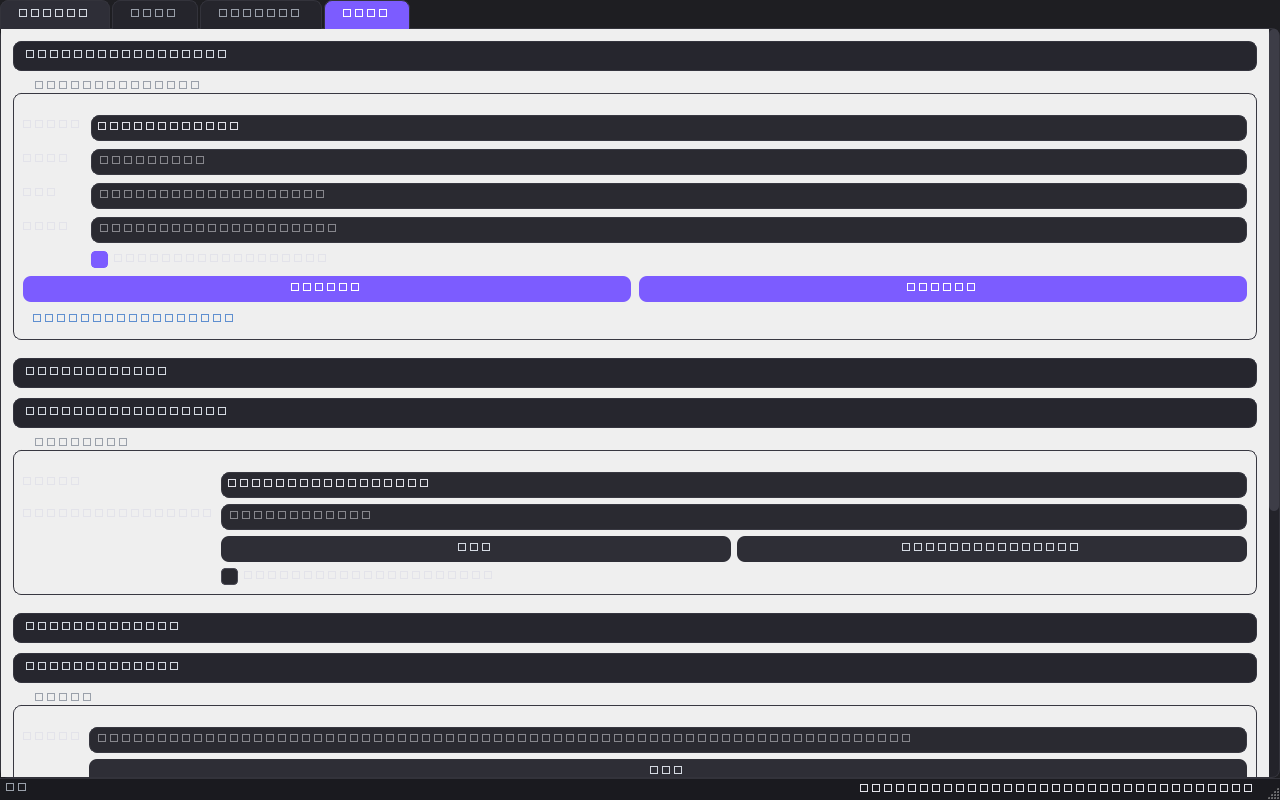
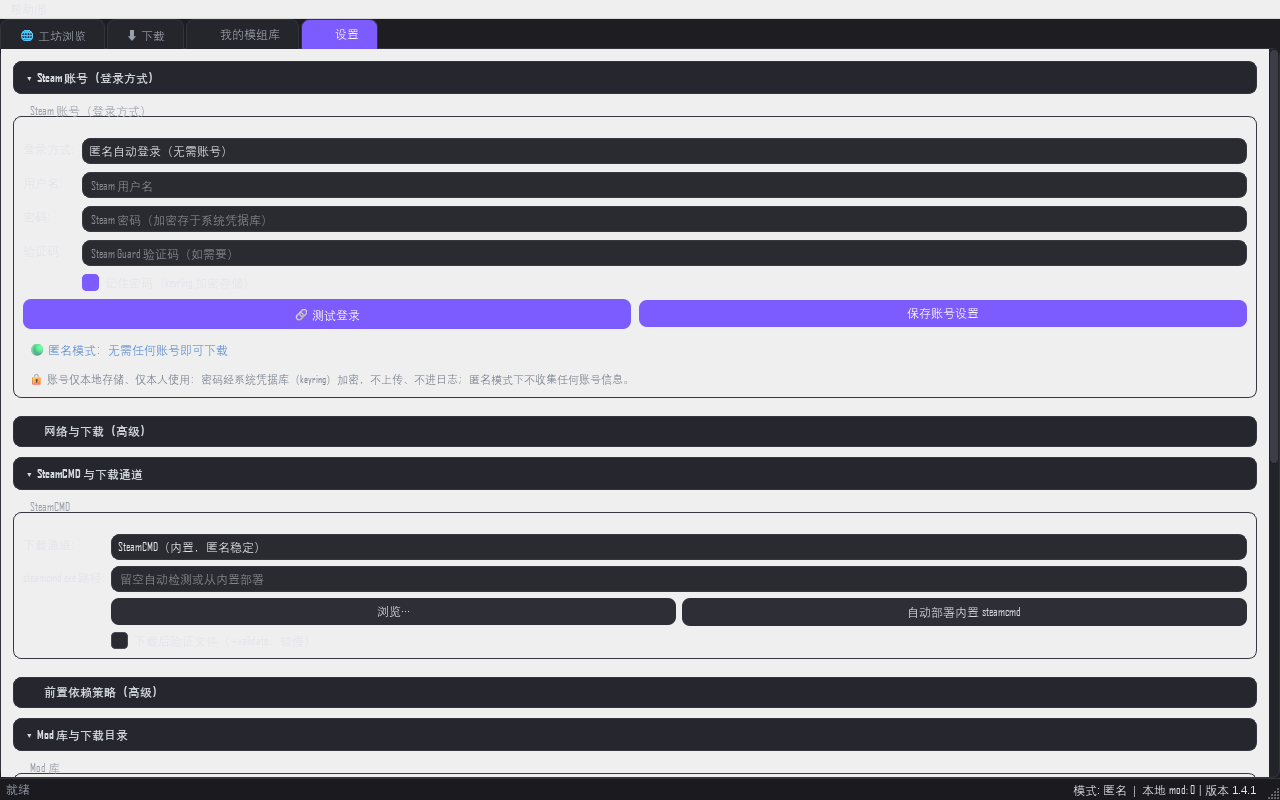
fix(shots): 修复 offscreen 截图豆腐块（QT_QPA_FONTDIR 指向 Windows/Fonts + 显式微软雅黑）
根因：offscreen QPA 不枚举系统字体（默认查 PySide6/lib/fonts，Qt 不再自带字体），字体族 0、连 ASCII 都无字形，9 张 README/手册截图全是框框。修复：两个截图脚本设置 QT_QPA_FONTDIR=%WINDIR%\Fonts + app.setFont(Microsoft YaHei)；程序化验证（两不同中文串渲染像素差异 65.9%，豆腐块≈0）。重建 9 张图 + 手册 HTML/PDF（base64 内嵌，140KB→523KB/1.40MB→1.64MB）+ exe + 安装包。

diff --git a/tools/make_manual_shots.py b/tools/make_manual_shots.py
@@ -19,6 +19,12 @@ import sys
 os.environ.setdefault("QT_QPA_PLATFORM", "offscreen")
 os.environ.setdefault("PYTHONUTF8", "1")
 
+# offscreen QPA 不枚举 Windows 系统字体（默认查 PySide6/lib/fonts，Qt 不再自带字体）
+# → 0 个字体族，连 ASCII 都无字形，成图全是豆腐块。指到 %WINDIR%\Fonts 修复。
+_WINFONTS = os.path.join(os.environ.get("WINDIR") or r"C:\Windows", "Fonts")
+if os.path.isdir(_WINFONTS):
+    os.environ.setdefault("QT_QPA_FONTDIR", _WINFONTS)
+
 _ROOT = os.path.dirname(os.path.dirname(os.path.abspath(__file__)))
 sys.path.insert(0, _ROOT)
 
@@ -39,6 +45,12 @@ OUT = os.path.join(_ROOT, "docs", "manual", "images")
 os.makedirs(OUT, exist_ok=True)
 
 app = QApplication.instance() or QApplication(sys.argv)
+
+# 显式中文字体：offscreen 默认字体经 fontdb 兜底不一定命中 CJK 字形，
+# 且需与真实 Windows 观感一致（微软雅黑）
+from PySide6.QtGui import QFont  # noqa: E402
+
+app.setFont(QFont("Microsoft YaHei", 9))
 
 # 延迟导入：MainWindow 会读配置/起下载管理器，在环境变量就绪后进行
 from swdm.gui.main_window import MainWindow  # noqa: E402

diff --git a/tools/make_readme_shots.py b/tools/make_readme_shots.py
@@ -15,6 +15,12 @@ import sys
 os.environ.setdefault("QT_QPA_PLATFORM", "offscreen")
 os.environ.setdefault("PYTHONUTF8", "1")
 
+# offscreen QPA 不枚举 Windows 系统字体（默认查 PySide6/lib/fonts，Qt 不再自带字体）
+# → 0 个字体族，连 ASCII 都无字形，成图全是豆腐块。指到 %WINDIR%\Fonts 修复。
+_WINFONTS = os.path.join(os.environ.get("WINDIR") or r"C:\Windows", "Fonts")
+if os.path.isdir(_WINFONTS):
+    os.environ.setdefault("QT_QPA_FONTDIR", _WINFONTS)
+
 _ROOT = os.path.dirname(os.path.dirname(os.path.abspath(__file__)))
 sys.path.insert(0, _ROOT)
 
@@ -36,6 +42,13 @@ OUT = os.path.join(_ROOT, "docs", "screenshots")
 os.makedirs(OUT, exist_ok=True)
 
 app = QApplication.instance() or QApplication(sys.argv)
+
+# 显式中文字体：offscreen 默认字体经 fontdb 兜底不一定命中 CJK 字形，
+# 且需与真实 Windows 观感一致（微软雅黑）
+from PySide6.QtGui import QFont  # noqa: E402
+
+app.setFont(QFont("Microsoft YaHei", 9))
+
 win = MainWindow()
 win.resize(1280, 800)
 
